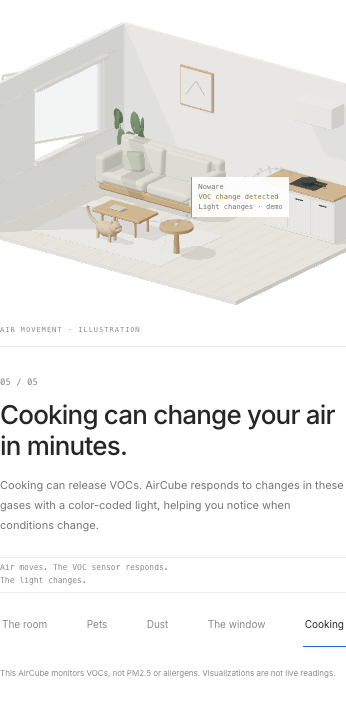
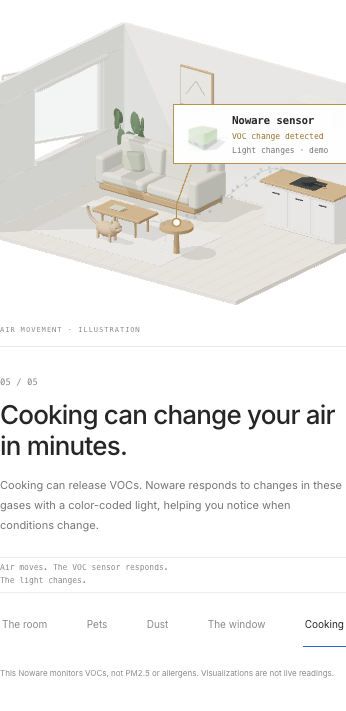
Identify the room sensor with product portrait and anchored leader

diff --git a/src/purpose/room.js b/src/purpose/room.js
@@ -56,7 +56,7 @@ export async function createRoom(host,state,onReady){
  product.scale.setScalar(.001);product.position.set(.53,.518,.8);product.rotation.y=.3;product.traverse(o=>{if(o.isMesh)o.castShadow=o.receiveShadow=true});scene.add(product);
  const diffuser=product.getObjectByName('diffuser');diffuser.material.dispose();diffuser.material=new T.MeshPhysicalMaterial({color:'#c8dfb9',roughness:.5,transmission:.08,thickness:.0013,emissive:'#91d980',emissiveIntensity:.3});
  const canvas=renderer.domElement;canvas.setAttribute('role','img');canvas.setAttribute('aria-label','A shared living room with a sofa, cat, openable window, kitchen and Noware on a side table. Air movement is illustrated.');host.append(canvas);
- const anchor=host.parentElement.querySelector('.room-device-label');
+ const anchor=host.parentElement.querySelector('.room-device-label'),leader=host.parentElement.querySelector('.room-device-leader');
  function render(now){raf=0;if(dead||!visible||document.hidden)return;const dt=Math.min(.06,(now-last)/1000);last=now;if(state.mode!=='paused')time+=dt;if(state.mode==='play'&&!state.reduced){state.progress=Math.min(.999,state.progress+dt/illustrationDuration);if(state.progress>=.999)state.mode='paused'}progress=state.reduced?state.progress:T.MathUtils.damp(progress,state.progress,9,dt);
  const chapter=Math.min(4,Math.floor(progress*5)),local=progress*5-chapter,activity=smooth(local*2);
  const walking=chapter===1?activity:chapter>1?1:0;cat.position.set(T.MathUtils.lerp(-1.7,-.78,walking),.025,1.03);cat.rotation.y=-.13;for(let i=0;i<paws.length;i++)paws[i].rotation.z=chapter===1&&!state.reduced?Math.sin(time*6+i%2*Math.PI)*.22*(1-activity):0;
@@ -75,7 +75,11 @@ export async function createRoom(host,state,onReady){
  particleGeo.attributes.position.needsUpdate=true;particleGeo.attributes.aOpacity.needsUpdate=true;
  pulse.scale.setScalar(1+(state.reduced?0:(time*.65)%1)*1.8);pulse.material.opacity=detection.sensing*(state.reduced?.65:.7*(1-(time*.65)%1));
  const target=new T.Vector3(-.15,1.05,0),aspect=host.clientWidth/host.clientHeight,span=innerWidth<700?6.4:6;const vertical=Math.max(span/aspect,5.7);camera.left=-vertical*aspect/2;camera.right=vertical*aspect/2;camera.top=vertical/2;camera.bottom=-vertical/2;camera.position.set(5,4.4,6.8);if(!state.reduced){camera.position.x-=progress*.3;target.z+=progress*.07}camera.lookAt(target);camera.updateProjectionMatrix();camera.updateMatrixWorld(true);
- const point=new T.Vector3(.53,.57,.8).project(camera);anchor.style.left=`${(point.x*.5+.5)*host.clientWidth}px`;anchor.style.top=`${(-point.y*.5+.5)*host.clientHeight}px`;
+ const point=new T.Vector3(.53,.57,.8).project(camera),px=(point.x*.5+.5)*host.clientWidth,py=(-point.y*.5+.5)*host.clientHeight;
+ const labelX=Math.min(host.clientWidth-anchor.offsetWidth-12,px+38),labelY=Math.max(12,py-118);
+ anchor.style.left=`${labelX}px`;anchor.style.top=`${labelY}px`;
+ leader.querySelector('path').setAttribute('d',`M ${px} ${py} L ${px} ${py-18} L ${labelX+18} ${labelY+anchor.offsetHeight}`);
+ leader.querySelector('circle').setAttribute('cx',px);leader.querySelector('circle').setAttribute('cy',py);
  // Only a verified VOC scene may illustrate the light changing; particle-only scenes do not drive it.
  const response=detection.response;const tint=new T.Color('#91d980').lerp(new T.Color('#e6bd61'),response);diffuser.material.emissive.copy(tint);diffuser.material.color.copy(new T.Color('#f5f1df').lerp(tint,.55));
  renderer.render(scene,camera);host.dataset.detection=detection.phase;host.dataset.response=response.toFixed(3);host.dataset.chapter=chapter;host.dataset.ready='true';host.dataset.progress=progress.toFixed(3);host.parentElement.classList.add('room-ready');onReady?.(chapter,local,detection);

diff --git a/src/purpose/index.js b/src/purpose/index.js
@@ -3,7 +3,7 @@ import {roomChapters,roomChapterAt} from './story.js';
 export function mountPurpose(){
  const section=document.createElement('section');section.id='what-it-does';section.className='purpose-story';section.setAttribute('aria-labelledby','purpose-title');
  section.innerHTML=`<div class="purpose-heading"><span class="purpose-eyebrow">WHAT DOES IT DO?</span><h2 id="purpose-title">Noware watches<br>the air around you.</h2><p>It continuously monitors VOCs, temperature, and humidity—helping you understand changes in the air around you.</p></div>
- <div class="room-scroll"><div class="room-sticky"><div class="room-stage"><picture><source media="(max-width:700px)" srcset="/showcase/room/poster-mobile.webp"><img class="room-poster" src="/showcase/room/poster.webp" width="1440" height="750" alt="A bright living room with a sofa, cat, kitchen, window, and Noware on a small side table."></picture><div class="room-canvas"></div><div class="room-device-label"><span>Noware</span><strong>VOC monitoring</strong><small>Continuous</small></div><span class="room-illustration">AIR MOVEMENT · ILLUSTRATION</span></div>
+ <div class="room-scroll"><div class="room-sticky"><div class="room-stage"><picture><source media="(max-width:700px)" srcset="/showcase/room/poster-mobile.webp"><img class="room-poster" src="/showcase/room/poster.webp" width="1440" height="750" alt="A bright living room with a sofa, cat, kitchen, window, and Noware on a small side table."></picture><div class="room-canvas"></div><svg class="room-device-leader" aria-hidden="true"><path/><circle r="4"/></svg><div class="room-device-label"><img src="/showcase/poster.webp" alt="" width="64" height="64"><div><span>Noware sensor</span><strong>VOC monitoring</strong><small>Continuous</small></div></div><span class="room-illustration">AIR MOVEMENT · ILLUSTRATION</span></div>
  <div class="room-caption" aria-live="polite" aria-atomic="true"><div><span class="room-count">01 / 05</span><h3>${roomChapters[0].title}</h3></div><p>${roomChapters[0].body}</p></div>
  <div class="room-playback"><button type="button" class="room-play" aria-label="Pause illustration">Pause illustration <span aria-hidden="true">Ⅱ</span></button><span class="room-sequence">Air moves. The VOC sensor responds. The light changes.</span></div>
  <nav class="room-chapters" aria-label="Explore everyday changes in the room">${roomChapters.map((s,i)=>`<button type="button" data-room-chapter="${i}" aria-current="${i===0?'step':'false'}"><span>0${i+1}</span>${s.name}</button>`).join('')}<button type="button" class="room-resume" hidden>Follow scroll ↓</button></nav><p class="room-note">This Noware monitors VOCs, not PM2.5 or allergens. Visualizations are not live readings.</p><p class="room-fallback" role="status" hidden>The room preview is shown. Use the chapter controls to explore the story.</p></div></div>

diff --git a/src/purpose/purpose.css b/src/purpose/purpose.css
@@ -12,3 +12,17 @@
 @media(max-width:700px){.room-playback{gap:10px}.room-sequence{max-width:185px;font-size:8px;line-height:1.6}.room-play{padding:0;font-size:10px}}
 
 .room-unavailable .room-playback,.room-unavailable .room-resume{display:none}
+
+/* The product portrait connects the room-scale object with the hardware hero. */
+.room-device-leader{position:absolute;inset:0;width:100%;height:100%;pointer-events:none;overflow:visible;color:#708969}
+.room-device-leader path{fill:none;stroke:currentColor;stroke-width:1.2}
+.room-device-leader circle{fill:none;stroke:currentColor;stroke-width:1.5}
+.room-device-label{transform:none;flex-direction:row;align-items:center;gap:8px;padding:8px 10px 8px 4px;width:200px;box-sizing:border-box;border:1px solid #e2e7df;background:#fffffff5;box-shadow:0 3px 15px #26262605}
+.room-device-label:before{display:none}
+.room-device-label>img{width:62px;height:62px;object-fit:contain;flex-shrink:0}
+.room-device-label>div{display:flex;flex-direction:column;gap:5px;min-width:0}
+.room-device-label span{font-family:inherit;font-size:12px;font-weight:600;color:#262626;letter-spacing:-.3px}
+.room-device-label strong{font-size:9px}.room-device-label small{font-size:8px}
+.room-unavailable .room-device-leader{display:none}
+.purpose-story[data-detection=signal] .room-device-leader{color:#b69251}
+@media(max-width:700px){.room-device-label{width:177px;padding:5px;gap:5px;transform:none}.room-device-label>img{width:48px;height:48px}.room-device-label span{font-size:11px}.room-device-label strong{font-size:8px}.room-device-label small{font-size:8px}}
